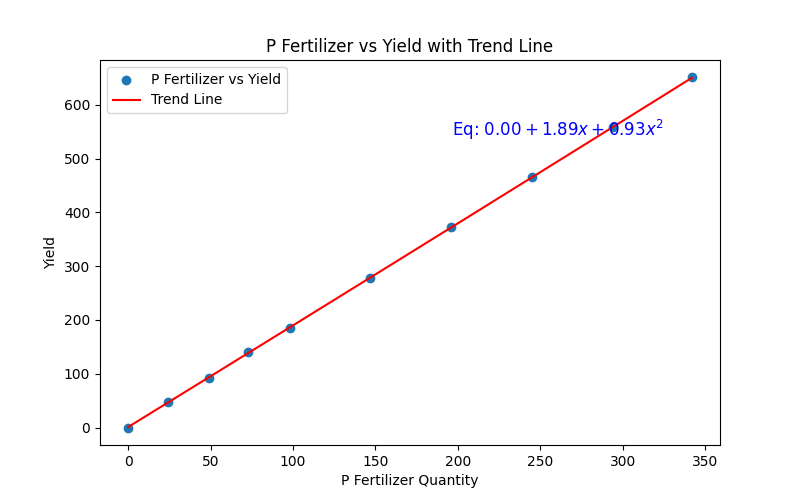
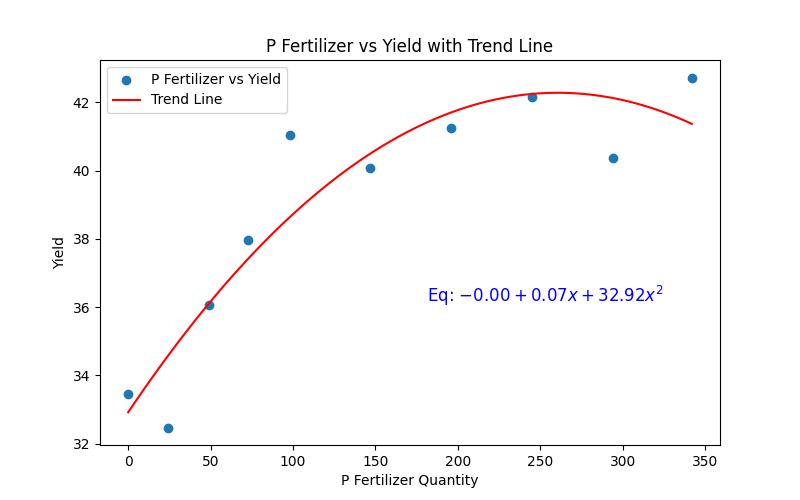
sb书数据给错了

diff --git a/Project/土豆描述性统计分析.py b/Project/土豆描述性统计分析.py
@@ -5,8 +5,12 @@ N_fertilizer = np.array([0, 34, 67, 101, 135, 202, 259, 336, 404, 471])
 N_yield = np.array(
     [15.18, 21.36, 25.72, 32.29, 34.03, 39.45, 43.15, 43.46, 40.83, 30.75]
 )
+
 P_fertilizer = np.array([0, 24, 49, 73, 98, 147, 196, 245, 294, 342])
-P_yield = np.array([0, 47, 93, 140, 186, 279, 372, 465, 558, 651])
+P_yield = np.array(
+    [33.46, 32.47, 36.06, 37.96, 41.04, 40.09, 41.26, 42.17, 40.36, 42.73]
+)
+
 K_fertilizer = np.array([0, 47, 93, 140, 186, 279, 372, 465, 558, 651])
 K_yield = np.array(
     [18.98, 27.35, 34.86, 38.52, 38.44, 37.73, 38.43, 43.87, 42.77, 46.22]

diff --git a/Project/土豆散点图.py b/Project/土豆散点图.py
@@ -8,8 +8,12 @@ N_fertilizer = np.array([0, 34, 67, 101, 135, 202, 259, 336, 404, 471])
 N_yield = np.array(
     [15.18, 21.36, 25.72, 32.29, 34.03, 39.45, 43.15, 43.46, 40.83, 30.75]
 )
+
 P_fertilizer = np.array([0, 24, 49, 73, 98, 147, 196, 245, 294, 342])
-P_yield = np.array([0, 47, 93, 140, 186, 279, 372, 465, 558, 651])
+P_yield = np.array(
+    [33.46, 32.47, 36.06, 37.96, 41.04, 40.09, 41.26, 42.17, 40.36, 42.73]
+)
+
 K_fertilizer = np.array([0, 47, 93, 140, 186, 279, 372, 465, 558, 651])
 K_yield = np.array(
     [18.98, 27.35, 34.86, 38.52, 38.44, 37.73, 38.43, 43.87, 42.77, 46.22]

diff --git a/Project/土豆线性回归.py b/Project/土豆线性回归.py
@@ -8,8 +8,12 @@ N_fertilizer = np.array([0, 34, 67, 101, 135, 202, 259, 336, 404, 471])
 N_yield = np.array(
     [15.18, 21.36, 25.72, 32.29, 34.03, 39.45, 43.15, 43.46, 40.83, 30.75]
 )
+
 P_fertilizer = np.array([0, 24, 49, 73, 98, 147, 196, 245, 294, 342])
-P_yield = np.array([0, 47, 93, 140, 186, 279, 372, 465, 558, 651])
+P_yield = np.array(
+    [33.46, 32.47, 36.06, 37.96, 41.04, 40.09, 41.26, 42.17, 40.36, 42.73]
+)
+
 K_fertilizer = np.array([0, 47, 93, 140, 186, 279, 372, 465, 558, 651])
 K_yield = np.array(
     [18.98, 27.35, 34.86, 38.52, 38.44, 37.73, 38.43, 43.87, 42.77, 46.22]
